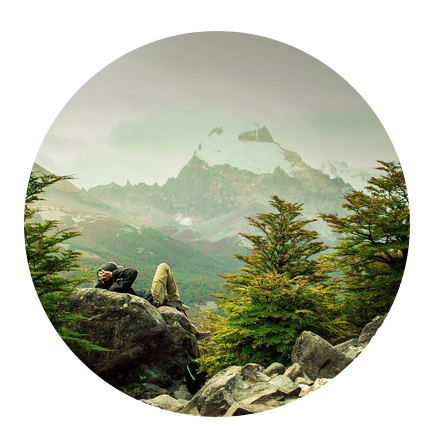
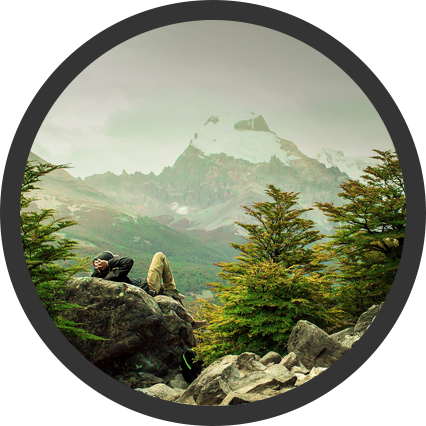
mobile view responsive

diff --git a/css/estilo.css b/css/estilo.css
@@ -1,129 +1,190 @@
-    .container {
-        display: flex;
-        flex-wrap: nowrap;
-        margin: auto;
-    }
-    
-    .column {
-        flex-direction: column;
-    }
-    
+html,
+body {
+    margin: 0px;
+    color: #fff;
+}
+
+.container {
+    display: flex;
+    flex-wrap: nowrap;
+    margin: auto;
+}
+
+.column {
+    flex-direction: column;
+}
+
+.item {
+    flex: 1 1 auto;
+    margin: 5px;
+    padding: 0 10px;
+    text-align: center;
+    font-size: 1.5em;
+}
+
+span {
+    font-weight: bold;
+}
+
+@media only screen and (min-width: 1000px) {
     header {
         background-image: url(/img/bgdesk.jpg);
         display: inline-block;
         background-position: center;
         background-repeat: no-repeat;
-        height: 20em;
-        height: 50em;
+        height: 55em;
         justify-content: start;
         text-align: center;
     }
-    
     header>h1 {
         color: #546130;
         font-family: 'Roboto', sans-serif;
         font-size: 60px;
         margin-bottom: 10px;
     }
-    
     header>h2 {
         color: #2d3b09;
         margin-top: 0;
         font-family: 'Roboto', sans-serif;
         font-size: 24px;
     }
-    
-    html,
-    body {
-        margin: 0px;
+}
+
+article {
+    background-color: #454545;
+    max-width: 1365px;
+    padding-top: 3em;
+    padding-bottom: 3em;
+    justify-content: center;
+}
+
+.img-article {
+    border-style: solid;
+    border-color: #6f6f6f;
+    border-width: 10px;
+}
+
+.title-article {
+    font-family: 'Roboto', sans-serif;
+    font-size: 24px;
+    color: white;
+}
+
+.p-article {
+    font-family: 'Roboto', sans-serif;
+    font-size: 16px;
+    color: white;
+    font-weight: 300;
+}
+
+section {
+    background-color: #6f6f6f;
+    max-width: 1365px;
+    padding-top: 3em;
+    padding-bottom: 3em;
+    justify-content: start;
+    text-align: center;
+}
+
+.img-section {
+    margin-left: 3em;
+    margin-right: 3em;
+    margin-top: 1em;
+}
+
+.h1-section {
+    font-family: 'Roboto', sans-serif;
+    font-size: 36px;
+    color: white;
+    text-align: left;
+}
+
+.p-section {
+    font-family: 'Roboto', sans-serif;
+    font-weight: 400;
+    font-size: 14px;
+    color: white;
+    text-align: justify;
+    margin-right: 5em;
+}
+
+footer {
+    text-align: center;
+    background-color: #454545;
+    max-width: 1365px;
+    justify-content: center;
+    font-family: 'Roboto', sans-serif;
+    font-size: 24px;
+    font-weight: bold;
+    color: white;
+    padding-top: 1.5em;
+    padding-bottom: 1.5em;
+}
+
+@media only screen and (max-width: 1000px) {
+    .container {
+        display: flex;
+        flex-wrap: wrap;
+        margin: auto;
+    }
+    aside {
+        background-image: url(/img/bgmobile.jpg);
+        background-position: center;
+        background-repeat: no-repeat;
+        height: 22em;
+        text-align: center;
+    }
+    header {
+        background-color: #6f6f6f;
+    }
+    header>h1 {
         color: #fff;
+        font-family: 'Roboto', sans-serif;
+        font-size: 48px;
+        margin-bottom: 10px;
+        text-align: center;
     }
-    
+    header>h2 {
+        color: #fff;
+        margin-top: 0;
+        font-family: 'Roboto', sans-serif;
+        font-style: inherit;
+        font-weight: 100;
+        font-size: 2spx;
+        text-align: center;
+        margin-left: 2em;
+        margin-right: 2em;
+    }
     .img-article {
-        border-style: solid;
-        border-color: #6f6f6f;
-        border-width: 10px;
+        width: 430px;
     }
-    
-    .img-section {
-        border-style: solid;
-        border-color: #454545;
-        border-width: 10px;
-        border-radius: 50%;
-        max-height: 20em;
-        max-width: 400px;
-    }
-    
-    article {
-        background-color: #454545;
-        max-width: 1365px;
-        padding-top: 3em;
-        padding-bottom: 3em;
-        justify-content: center;
-    }
-    
     .title-article {
         font-family: 'Roboto', sans-serif;
-        font-size: 24px;
+        font-size: 30px;
         color: white;
     }
-    
     .p-article {
         font-family: 'Roboto', sans-serif;
-        font-size: 16px;
+        font-size: 20px;
         color: white;
+        font-weight: 100;
     }
-    
-    section {
-        background-color: #6f6f6f;
-        max-width: 1365px;
-        padding-top: 3em;
-        padding-bottom: 3em;
+    .img-section {
+        margin-left: 0em;
+        margin-right: 0em;
+        margin-top: 0em;
     }
-    
     .h1-section {
-        font-family: 'Roboto', sans-serif;
-        font-size: 36px;
-        color: white;
+        text-align: center;
+        font-size: 60px;
+        margin-top: 0.5em;
+        margin-bottom: 0.5em;
     }
-    
     .p-section {
-        font-family: 'Roboto', sans-serif;
         font-size: 16px;
-        color: white;
-    }
-    
-    .item {
-        flex: 1;
-        margin: 5px;
-        padding: 0 10px;
         text-align: center;
-        font-size: 1.5em;
+        margin-left: 1em;
+        margin-top: 0;
+        margin-right: 1em;
     }
-    
-    .item2 {
-        flex: ;
-        margin: 5px;
-        padding: 0 10px;
-        text-align: center;
-        font-size: 1.5em;
-        max-width: 50%;
-    }
-    
-    footer {
-        text-align: center;
-        background-color: #454545;
-        max-width: 1365px;
-        justify-content: center;
-        font-family: 'Roboto', sans-serif;
-        font-size: 24px;
-        color: white;
-        padding-top: 1.5em;
-        padding-bottom: 1.5em;
-    }
-    
-    @media only screen and (max-width: 767px) {
-        header {
-            background-image: url(/img/bgdesk.jpg);
-        }
-    }
+}

diff --git a/index.html b/index.html
@@ -7,7 +7,7 @@
     <title>Prova Front End Junior</title>
     <link href="./css/estilo.css" rel="stylesheet" />
 
-    <link href="https://fonts.googleapis.com/css2?family=Roboto:wght@700&display=swap" rel="stylesheet">
+    <link href="https://fonts.googleapis.com/css2?family=Roboto:wght@400;700&display=swap" rel="stylesheet">
 </head>
 
 <body>
@@ -16,6 +16,7 @@
         <h2> Lorem ipsum dolor sit amet, consectetur adipiscing elit</h2>
     </header>
 
+    <aside> </aside>
     <article class="container">
         <div class="item"><img src="img/sectiondesk.jpg" class="img-article">
             <h3 class="title-article"> LOREM IPSUM </h3>
@@ -41,15 +42,25 @@
 
     <section class="container ">
         <div class="item ">
-            <img src="img/sectionimg.jpg " class="img-section ">
+            <img src="img/deskrounded.png " class="img-section ">
         </div>
-
-        <div class="item "></div>
-        <h1 class="h1-section"> LOREM IPSUM</h1>
-        <p class="p-section"> Lorem ipsum dolor sit amet, consectetur adipiscing elit. Praesent lobortis ullamcorper urna quis mattis. Aenean tincidunt tincidunt ullamcorper. Ut turpis libero, efficitur ut ornare vel, tincidunt ut dolor. Aliquam non nisl mauris. Praesent lacinia
-            lobortis tortor, sit amet tempus turpis fermentum porta. Donec vulputate ac velit et laoreet. Etiam dictum mauris at odio volutpat suscipit.
-        </p>
-
+        <div class="column">
+            <div class="item "></div>
+            <h1 class="h1-section"> LOREM IPSUM</h1>
+            <p class="p-section"> Lorem ipsum dolor sit amet, consectetur adipiscing elit. Praesent lobortis ullamcorper urna quis mattis. Aenean tincidunt tincidunt ullamcorper. Ut turpis libero, efficitur ut ornare vel, tincidunt ut dolor. Aliquam non nisl mauris. Praesent
+                lacinia lobortis tortor, sit amet tempus turpis fermentum porta. Donec vulputate ac velit et laoreet. Etiam dictum mauris at odio volutpat suscipit.
+            </p>
+            <p class="p-section"> <span> Lorem ipsum dolor sit amet, consectetur adipiscing elit. Praesent lobortis ullamcorper urna quis mattis. Aenean tincidunt tincidunt ullamcorper. Ut turpis libero, efficitur ut ornare vel, tincidunt ut dolor. Aliquam non nisl mauris. Praesent
+                lacinia lobortis tortor, sit amet tempus turpis fermentum porta. Donec vulputate ac velit et laoreet. Etiam dictum mauris at odio volutpat suscipit.</span>
+            </p>
+            <p class="p-section"> Lorem ipsum dolor sit amet, consectetur adipiscing elit. Praesent lobortis ullamcorper urna quis mattis. Aenean tincidunt tincidunt ullamcorper. Ut turpis libero, efficitur ut ornare vel, tincidunt ut dolor. Aliquam non nisl mauris. Praesent
+                lacinia lobortis tortor, sit amet tempus turpis fermentum porta. Donec vulputate ac velit et laoreet. Etiam dictum mauris at odio volutpat suscipit.
+            </p>
+            <p class="p-section"> Lorem ipsum dolor sit amet, consectetur adipiscing elit. Praesent lobortis ullamcorper urna quis mattis. Aenean tincidunt tincidunt ullamcorper. Ut turpis libero, efficitur ut ornare vel, tincidunt ut dolor. Aliquam non nisl mauris. Praesent
+                lacinia lobortis tortor, sit amet tempus turpis fermentum porta. Donec vulputate ac velit et laoreet. Etiam dictum mauris at odio volutpat suscipit.
+            </p>
+        </div>
+        </div>
     </section>
 
     <footer class="container ">
